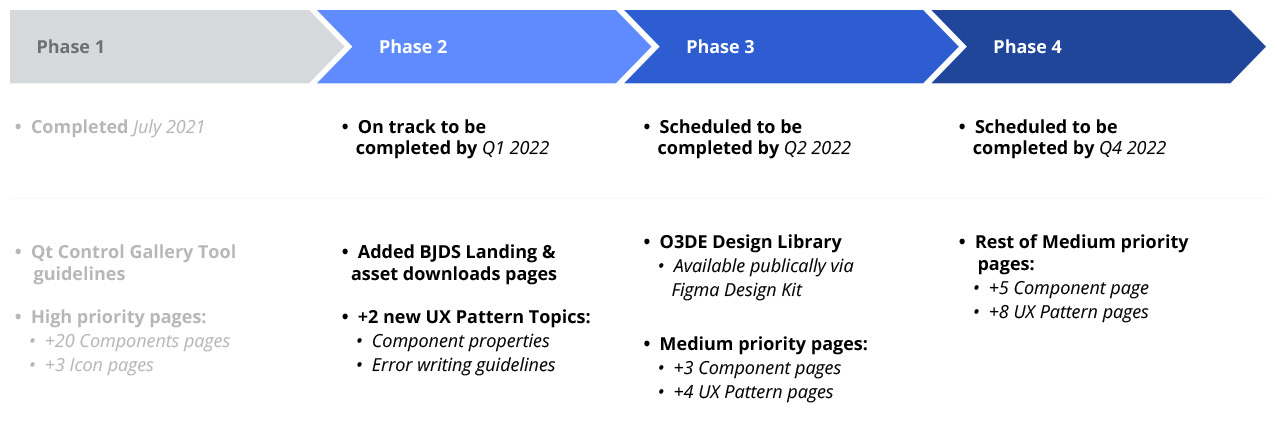
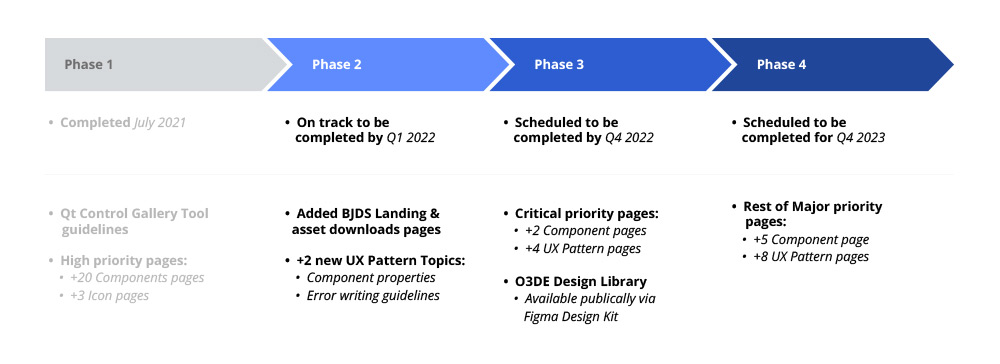
Made requested edit changes + img update

diff --git a/content/blog/posts/o3de-introducing-design-system.md b/content/blog/posts/o3de-introducing-design-system.md
@@ -10,8 +10,6 @@ full_img: "/images/blog/bjds-logo.jpg"
 
 Learn about the new UX design system for Open 3D Engine (O3DE) tools from Lee Hung Nguyen, one of the UX designers contributing to O3DE.
 
-## Introducing the BlueJay Design System for O3DE
-
 My name is Lee Hung Nguyen, and I am one of the UX Designers in the Special Interest Group for the UI UX community (SIG-UI-UX) that helps to contribute towards the Open 3D Engine (O3DE).
 
 Today, you'll be learning about the design system that the SIG UX UI community has been working on: **the BlueJay Design System (BJDS).**
@@ -32,26 +30,26 @@ We discovered that a lot of our contributors were reinventing the wheel on probl
 
 This caused inconsistent replications of the same functionality for our workflows! Which isn't really scalable for an open source community. We knew that the intention for our contributors were positive, but it was just the lack of guidance missing to help put them on the right path. 
 
-So understandably some sort of unified framework for the cross-functional teams needed. This would help raise the quality bar of standards for consistency in O3DE. As the contributors lacked a central framework to align to, teams would just instinctively work on their own solo initiatives, further breeding inefficiencies. Something that is not ideal for a collaborative community.
+So understandably some sort of unified framework for the cross-functional teams is needed. This would help raise the quality bar of standards for consistency in O3DE. As the contributors lacked a central framework to align to, teams would just instinctively work on their own solo initiatives, further breeding inefficiencies. Something that is not ideal for a collaborative community.
 
-So to further ensure that the editor upheld these high quality of these standards, we developed some tenets that contributors should follow:
+To further ensure that the editor upholds the high quality bar defined by these standards, we developed some tenets that contributors should follow:
 
 ![Diagram showing the tenets of the O3DE design system](/images/blog/intro-to-bjds/tenets-diagram.jpg)
 
 * **Efficiency:** User interactions and workflows should value efficiency and ease of use.
-* **Accessibility:** Accessibility options, such as color contrasts, fonts and icon legibility, interactions and scalability etc. are built into our the tool from the first step.
+* **Accessibility:** Accessibility options, such as color contrasts, font and icon legibility, interactions and scalability are built into our the tool from the first step.
 * **Familiarity:** Align to our standards of the visual interfaces, tools, branding, and UI elements. No need to reinvent the wheel and confuse users.
 * **Modularity:** The key to each element of O3DE, including the interface design and component development.
 
-These tenets were formed to be straightforward and easy to remember. We want to ensure that the BJDS tenets are flexible for the community to embrace, and to employ through their contributions to the engine.
+These tenets were formed to be straightforward and easy to remember. We want to ensure that the BJDS tenets are flexible enough for the community to embrace and employ when contributing to the engine.
 
 ### What's included in the BlueJay Design System
 
-**The BlueJay Design System** is made up of a set of standardized components and layouts to help accelerate the creation of new workflows for the editor. It also has [supporting documentation](https://o3de.org/docs/tools-ui/) on the O3DE Learn website, which details the following:
+**The BlueJay Design System** is made up of a set of standardized components and layouts to help accelerate the creation of new workflows in the Editor. It also has [supporting documentation](https://o3de.org/docs/tools-ui/) on the O3DE Learn website, which details the following:
 
 #### UI Components
 
-UI components are the various individual widgets that make up the editor experience. The BJDS documentation outlines details like visual markup properties, rules around how to use them and guides when to use them in which scenario. Currently, with [20 UI components](https://o3de.org/docs/tools-ui/component-library/) detailed (and more coming), these include code samples and API references to integrate into your editor extension.
+UI components are the various individual widgets that make up the editor experience. The BJDS documentation outlines details like visual markup properties, rules about how to use them, and guides about when to use them and in which scenario. Currently, with [20 UI components](https://o3de.org/docs/tools-ui/component-library/) detailed (and more coming), these documentation include code samples and API references to integrate into your editor extension.
 
 If you are looking for information on key building blocks that O3DE uses, [UI Components](https://o3de.org/docs/tools-ui/component-library/) is the right place to read. It's the systematic reuse of these components that make up the visual and functional consistency across O3DE.
 
@@ -59,37 +57,38 @@ If you are looking for information on key building blocks that O3DE uses, [UI Co
 
 #### UX Patterns
 
-UX Patterns are a series of best practice solutions that a designer or developer should follow when creating new workflows and components in the editor. Unlike UI Components, where it's mostly about the visual aesthetics and how it mechanically operates, UX Patterns is more about how a user interacts and behaves for a task with a goal in mind.
+UX Patterns are a series of best practice solutions that a designer or developer should follow when creating new workflows and components in the Editor. Unlike UI Components, which is mostly about the visual aesthetics and how it mechanically operates, UX Patterns is more about how a user interacts and behaves for a task with a goal in mind.
 
-For e.g., the anatomy of a component card and it's different types can be found on the [UI Component > Card page](https://o3de.org/docs/tools-ui/component-library/uidev-card-component/), while the what contents go in the card, how a user interacts with it and how O3DE interacts with the card itself can be found on the [UX Patterns > Component Card UX Patterns](https://o3de.org/docs/tools-ui/ux-patterns/component-card/overview/) page.
+For example, the anatomy of a component card and it's different types can be found in the [UI Component > Card](https://o3de.org/docs/tools-ui/component-library/uidev-card-widget/) page. What contents go in the card, how a user interacts with it and how O3DE interacts with the card itself can be found in the [UX Patterns > Component Card UX Patterns](https://o3de.org/docs/tools-ui/ux-patterns/component-card/overview/) page.
 
 ![Preview image for the O3DE component card guidelines](/images/blog/intro-to-bjds/componentcard-ux-preview.jpg)
 
-Currently we have two UX Pattern pages on O3DE Learn: Component Card Properties and Writing UI Message guidelines. We plan to roll out more pages in the future coming months, so stay tuned.
+Currently we have two UX Pattern pages on O3DE Learn: Component Card and UI Messages for Error Handling. We plan to roll out more pages in the coming months, so stay tuned.
 
 #### O3DE Branding Guidelines
 
-Our [brand guidelines section](https://o3de.org/docs/tools-ui/branding-guidelines/) includes information on how to apply the O3DE brand, and downloadable assets such as; a PDF style guide, logos files and fonts etc. These pages are especially important if you are looking to represent the O3DE logo in your product or marketing website. 
+Our [brand guidelines section](https://o3de.org/docs/tools-ui/branding-guidelines/) includes information on how to apply the O3DE brand and downloadable assets such as a PDF style guide, logos files, fonts and so on. These pages are especially important if you are looking to represent the O3DE logo in your product or marketing website.
 
 ![Preview image for the O3DE branding guidelines](/images/blog/intro-to-bjds/branding-guidelines-preview.jpg)
 
-If there's an asset that's missing that you're looking for, don't hesitate to [file a ticket](https://github.com/o3de/sig-ui-ux/issues/new/choose) and the community will help get the right asset you need. We are always happy to help!
+If there's a missing asset that you're looking for, don't hesitate to [file a ticket](https://github.com/o3de/sig-ui-ux/issues/new/choose) and the community will help get the right asset you need. We are always happy to help!
+
 ### BlueJay Design System's Roadmap
 
 ![Diagram showing the tenets of the O3DE design system](/images/blog/intro-to-bjds/roadmap2.jpg)
 
-Above is our planned roadmap for 2021–2022. These timeframes are estimates based off our current SIG-UI-UX contributions rate. Times may vary; if we are able to gather more community support and help, items could be completed even sooner.
+Above is our planned roadmap for 2021-2022. These timeframes are estimates based off of our current SIG-UI-UX contributions rate. Times may vary; if we are able to gather more community support and help, items could be completed even sooner.
 
-For a full detailed breakdown on our roadmap, you can read our article here.
+For a full detailed breakdown on our roadmap, you can read it [here](https://github.com/o3de/o3de.org/projects/8).
 
 #### Looking Forward
 
-The next steps for BJDS involve planning out resources and commitments towards achieving these goals. As Phase 2 comes to a close soon, Phase 3 is will be achievable with the help of the SIG-UI-UX community effort as a whole. As a core contributor towards this design system, I will be looking to help kick start some of these new pages to get the ball going. 
+The next steps for BJDS involve planning out resources and commitments towards achieving these goals. As Phase 2 comes to a close soon, Phase 3 will be achievable with the help of the SIG-UI-UX community effort. As a core contributor towards this design system, I am looking to help kick-start some of these new pages.
 
-If you would like to help contribute towards the efforts here—by reviewing, writing or letting us know to remind you when we want some feedback—let us know on [Discord](https://discord.com/invite/o3de)! All the extra eyes and hands are a massive help.
+If you would like to help contribute towards the efforts here—by reviewing, writing or letting us know to remind you when we want some feedback—let us know in the #sig-ui-ux channel on [Discord](https://discord.com/invite/o3de)! All the extra eyes and hands are a massive help.
 
-You can see here that the BJDS has big dreams and ambitions. As a core, it's just a design system for an open source 3D Engine. But as an end goal, we want this to be much more than that. 
+You can see here that the BJDS has big dreams and ambitions. At its core, it's just a design system for an open-source, 3D engine. But as an end goal, we want this to be much more than that.
 
-**We want BlueJay to become the best design system that all 3D engines can also refer to in setting the quality benchmark for industry standards.**
+**We want BlueJay to become the best design system that all 3D engines can depend on to set the quality benchmark for industry standards.**
 
 This is just the beginning. Let's do it together!
